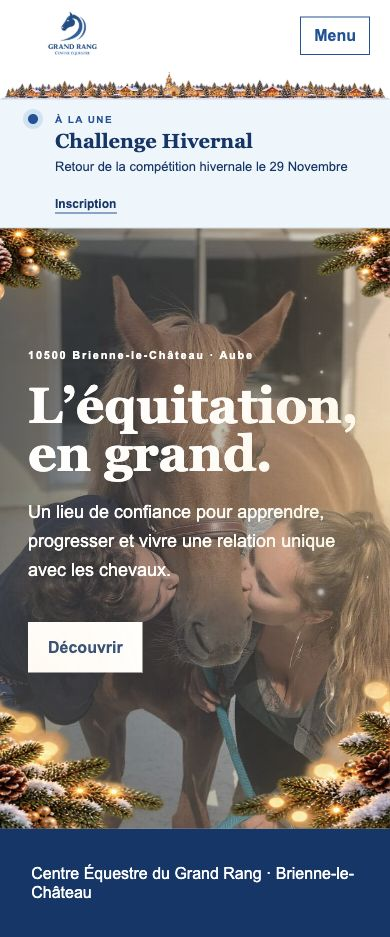
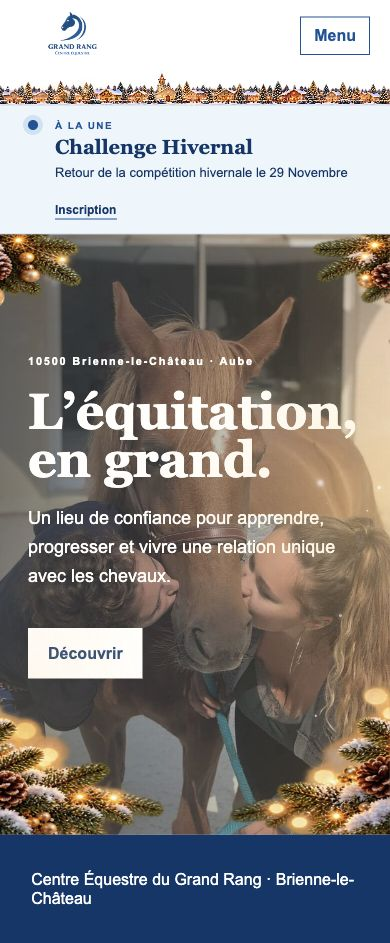
refine: enlarge mobile Christmas village

diff --git a/public/seasonal/seasonal.css b/public/seasonal/seasonal.css
@@ -253,18 +253,18 @@ body > header.seasonal-header--christmas > details {
 
 @media (max-width: 700px) {
   body > header.seasonal-header--christmas {
-    height: 100px;
-    padding-bottom: 28px;
+    height: 106px;
+    padding-bottom: 34px;
   }
 
   body > header.seasonal-header--christmas::before {
-    height: 36px;
-    background-size: 100% auto;
+    height: 42px;
+    background-size: 128% auto;
     opacity: .96;
   }
 
   body > header.seasonal-header--christmas::after { content: none; }
-  .seasonal-village-ambience { height: 36px; }
+  .seasonal-village-ambience { height: 42px; }
   .seasonal-village-ambience i:nth-of-type(n+7),
   .seasonal-village-smoke { display: none; }
 
